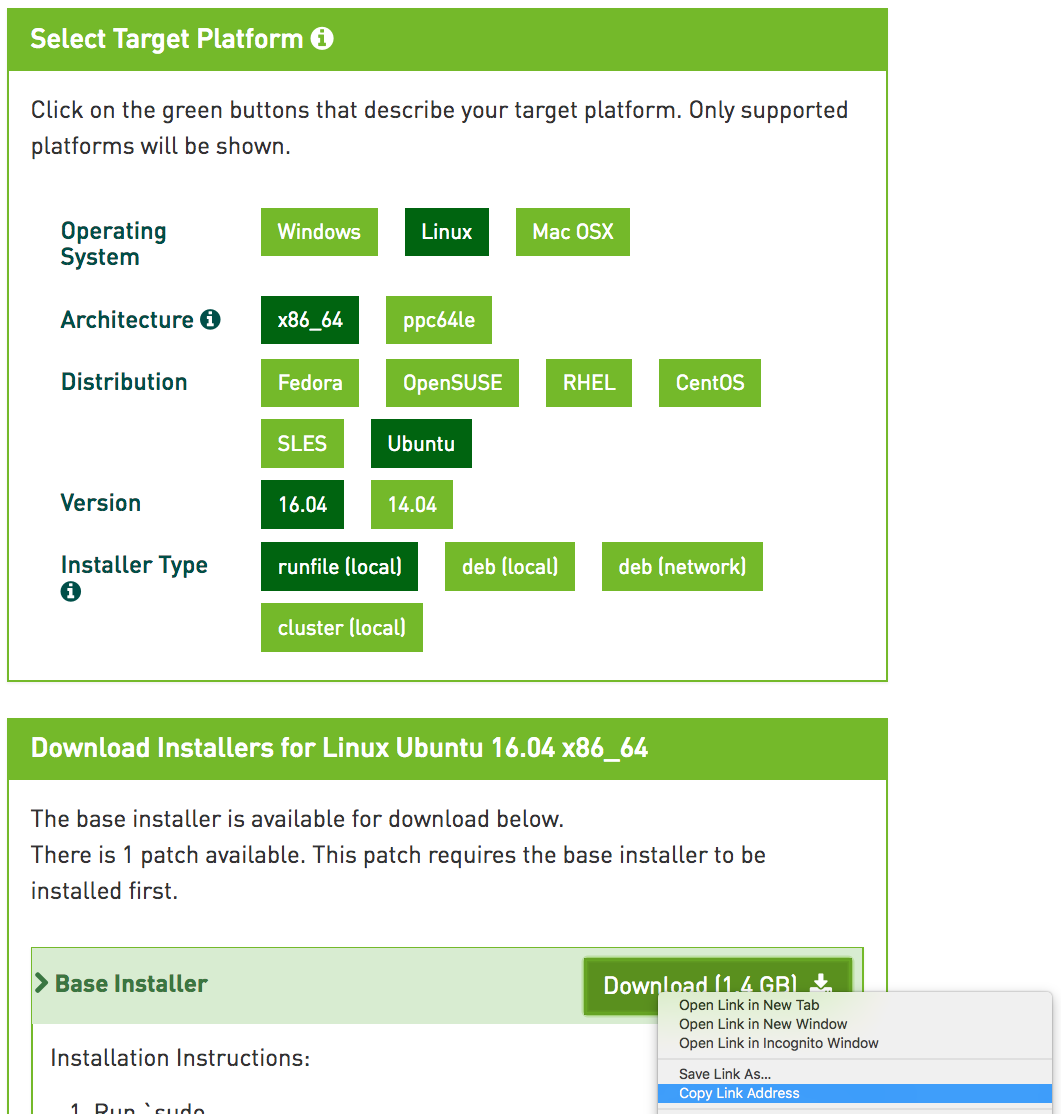
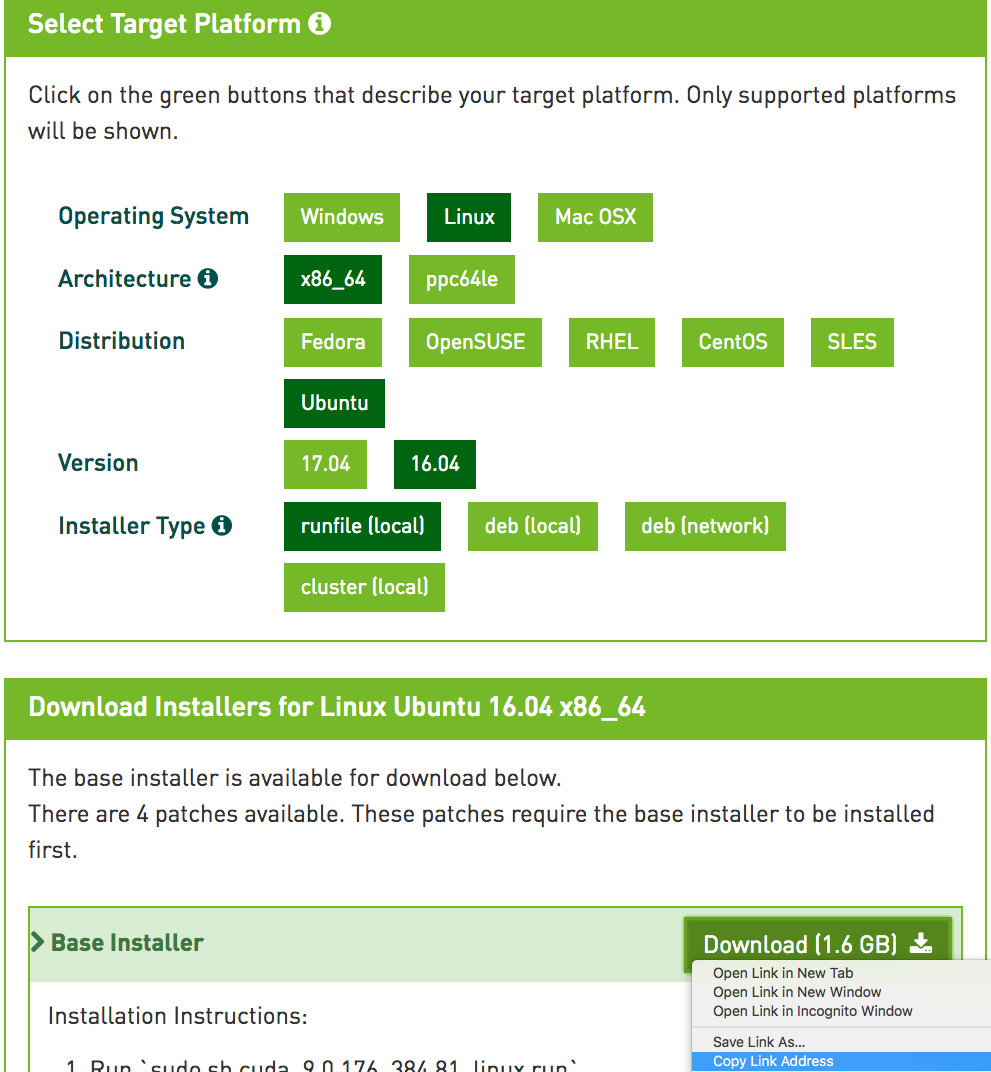
update install instructions

Changed region(s): [[0.0, 0.0, 1.0, 1.0], [0.0605, 0.9851, 0.5752, 1.0]]

diff --git a/chapter_appendix/aws.md b/chapter_appendix/aws.md
@@ -68,35 +68,37 @@ ssh -i "/path/to/key.pem" ubuntu@ec2-xx-xxx-xxx-xxx.y.compute.amazonaws.com
 sudo apt-get update && sudo apt-get install -y build-essential git libgfortran3
 ```
 
-Nvidia一般每年会更新一次CUDA大版本。这里我们下载作者写本书时的最新版本CUDA 9.1。访问Nvidia官网（https://developer.nvidia.com/cuda-91-download-archive ）获取正确 版本的CUDA 9.1的下载地址，如图11.17所示。
+Nvidia一般每年会更新一次CUDA主版本。这里我们下载作者写本书时的最新主版本CUDA 9.0（也可使用MXNet支持的其他版本）。访问Nvidia官网（https://developer.nvidia.com/cuda-90-download-archive ）获取正确版本的CUDA 9.0的下载地址，如图11.17所示。
 
-![获取CUDA9.1的下载地址。](../img/cuda.png)
+![获取CUDA9.0的下载地址。](../img/cuda.png)
 
 
-获取下载地址后，我们将下载并安装CUDA9.1，例如
+获取下载地址后，我们将下载并安装CUDA9.0，例如
 
 ```
-wget https://developer.download.nvidia.com/compute/cuda/9.1/secure/Prod/local_installers/cuda_9.1.85_387.26_linux.run
-sudo sh cuda_9.1.85_387.26_linux.run
+wget https://developer.nvidia.com/compute/cuda/9.0/Prod/local_installers/cuda_9.0.176_384.81_linux-run
+sudo sh cuda_9.0.176_384.81_linux-run
 ```
 
 点击“Ctrl+C”跳出文档浏览，并回答以下几个问题。
 
 ```
+Do you accept the previously read EULA?
 accept/decline/quit: accept
-Install NVIDIA Accelerated Graphics Driver for Linux-x86_64 387.26?
+Install NVIDIA Accelerated Graphics Driver for Linux-x86_64 384.81?
 (y)es/(n)o/(q)uit: y
 Do you want to install the OpenGL libraries?
 (y)es/(n)o/(q)uit [ default is yes ]: y
 Do you want to run nvidia-xconfig?
+This will ... vendors.
 (y)es/(n)o/(q)uit [ default is no ]: n
-Install the CUDA 9.1 Toolkit?
+Install the CUDA 9.0 Toolkit?
 (y)es/(n)o/(q)uit: y
 Enter Toolkit Location
- [ default is /usr/local/cuda-9.1 ]:
+ [ default is /usr/local/cuda-9.0 ]:
 Do you want to install a symbolic link at /usr/local/cuda?
 (y)es/(n)o/(q)uit: y
-Install the CUDA 9.1 Samples?
+Install the CUDA 9.0 Samples?
 (y)es/(n)o/(q)uit: n
 ```
 
@@ -106,10 +108,10 @@ Install the CUDA 9.1 Samples?
 nvidia-smi
 ```
 
-最后，将CUDA加入到库的路径中，以方便其他库找到它。
+最后，将CUDA加入到库的路径中，以方便其他库找到它。如果你使用其他版本或其他路径，需要修改以下命令中的字符串“/usr/local/cuda-9.0”。
 
 ```
-echo "export LD_LIBRARY_PATH=\${LD_LIBRARY_PATH}:/usr/local/cuda-9.1/lib64" >> .bashrc
+echo "export LD_LIBRARY_PATH=\${LD_LIBRARY_PATH}:/usr/local/cuda-9.0/lib64" >> ~/.bashrc
 ```
 
 ## 获取本书代码并安装GPU版的MXNet
@@ -131,7 +133,7 @@ to PATH in your /home/ubuntu/.bashrc ? [yes|no]
 [no] >>> yes
 ```
 
-安装完成后，运行一次`source ~/.bashrc`让CUDA和conda生效。接下来，下载本书代码、安装并激活conda环境。
+安装完成后，运行一次`source ~/.bashrc`让CUDA和conda生效。接下来，下载本书代码、安装并激活conda环境。如未安装`unzip`，可运行命令`sudo apt install unzip`安装。
 
 ```
 mkdir d2l-zh && cd d2l-zh
@@ -141,11 +143,11 @@ conda env create -f environment.yml
 source activate gluon
 ```
 
-默认环境里安装了CPU版本的MXNet。现在我们将它替换成GPU版本的MXNet。因为CUDA的版本是9.1，所以安装`mxnet-cu91`。一般来说，如果CUDA版本是x.y，那么相应安装`mxnet-cuxy`。
+默认环境里安装了CPU版本的MXNet。现在我们将它替换成GPU版本的MXNet。因为CUDA的版本是9.0，所以安装`mxnet-cu90`。一般来说，如果CUDA版本是x.y，那么相应安装`mxnet-cuxy`。
 
 ```
 pip uninstall mxnet
-pip install mxnet-cu91
+pip install mxnet-cu90==1.2.1  # 1.2.1是本书代码依赖的版本号。
 ```
 
 ## 运行Jupyter记事本

diff --git a/chapter_prerequisite/install.md b/chapter_prerequisite/install.md
@@ -28,13 +28,13 @@ conda config --prepend channels https://mirrors.tuna.tsinghua.edu.cn/anaconda/pk
 conda config --prepend channels http://mirrors.ustc.edu.cn/anaconda/pkgs/free/
 ```
 
-接下来使用conda创建虚拟环境并安装本书需要的软件。这里`environment.yml`是放置在代码压缩包中的文件，它指定了执行本书代码所需要的软件。
+接下来使用conda创建虚拟（运行）环境并安装本书需要的软件。这里`environment.yml`是放置在代码压缩包中的文件，它指定了执行本书代码所需要的软件。
 
 ```
 conda env create -f environment.yml
 ```
 
-第四步：激活之前创建的环境。
+第四步：激活之前创建的环境。激活该环境是能够运行本书代码的前提。如需退出虚拟环境，可使用命令`deactivate`。
 
 ```
 activate gluon
@@ -68,13 +68,13 @@ sh Miniconda3-latest-Linux-x86_64.sh
 Do you accept the license terms? [yes|no]
 [no] >>> yes
 Do you wish the installer to prepend the Miniconda3 install location
-to PATH in your /home/your_name/.conda ? [yes|no]
+to PATH in your /home/your_name/your_file ? [yes|no]
 [no] >>> yes
 ```
 
 安装完成后，我们需要让Conda生效。Linux用户需要运行一次`source ~/.bashrc`或重启命令行应用；macOS用户需要运行一次`source ~/.bash_profile`或重启命令行应用。
 
-第二步：下载包含本书全部代码的压缩包，解压后进入文件夹。运行以下命令。
+第二步：下载包含本书全部代码的压缩包，解压后进入文件夹。运行以下命令。如未安装`unzip`，可运行命令`sudo apt install unzip`安装。
 
 ```
 mkdir d2l-zh && cd d2l-zh
@@ -87,6 +87,8 @@ unzip d2l-zh.zip && rm d2l-zh.zip
 ```
 source activate gluon
 ```
+
+如需退出虚拟环境，可使用命令`source deactivate`。
 
 ## 更新代码和运行环境
 
@@ -111,13 +113,13 @@ conda env update -f environment.yml
 
 通过前面介绍的方式所安装的MXNet只支持CPU计算。本书中部分章节需要或推荐使用GPU来运行。如果你的电脑上有Nvidia显卡并安装了CUDA，建议使用GPU版的MXNet。
 
-第一步：卸载CPU版本MXNet。如果你没有安装虚拟环境，可以跳过此步。如已安装虚拟环境，需要先激活运行环境，再卸载CPU版本的MXNet：
+第一步：卸载CPU版本MXNet。如果你没有安装虚拟环境，可以跳过此步。如已安装虚拟环境，需要先激活该环境，再卸载CPU版本的MXNet：
 
 ```
 pip uninstall mxnet
 ```
 
-然后退出虚拟环境，Windows用户使用命令`deactivate`，Linux/macOS用户则使用`source deactivate`。
+然后退出虚拟环境。
 
 第二步：更新依赖为GPU版本的MXNet。使用文本编辑器打开本书代码所在根目录下的文件`environment.yml`，将里面的“mxnet”替换成对应的GPU版本。例如，如果电脑上装的是8.0版本的CUDA，将该文件中的字符串“mxnet”改为“mxnet-cu80”。如果电脑上安装了其他版本的CUDA（比如7.5、9.0、9.2等），对该文件中的字符串“mxnet”做类似修改（比如改为“mxnet-cu75”、“mxnet-cu90”、“mxnet-cu92”等）。保存文件后退出。
 

diff --git a/chapter_appendix/jupyter.md b/chapter_appendix/jupyter.md
@@ -56,7 +56,7 @@
 git clone https://github.com/diveintodeeplearning/d2l-zh.git
 cd d2l-zh
 conda env create -f environment.yml
-source activate gluon # Windows 用户运行 activate gluon
+source activate gluon  # Windows 用户运行 activate gluon。
 ```
 
 下面安装notedown插件，运行Jupyter记事本并加载插件：
